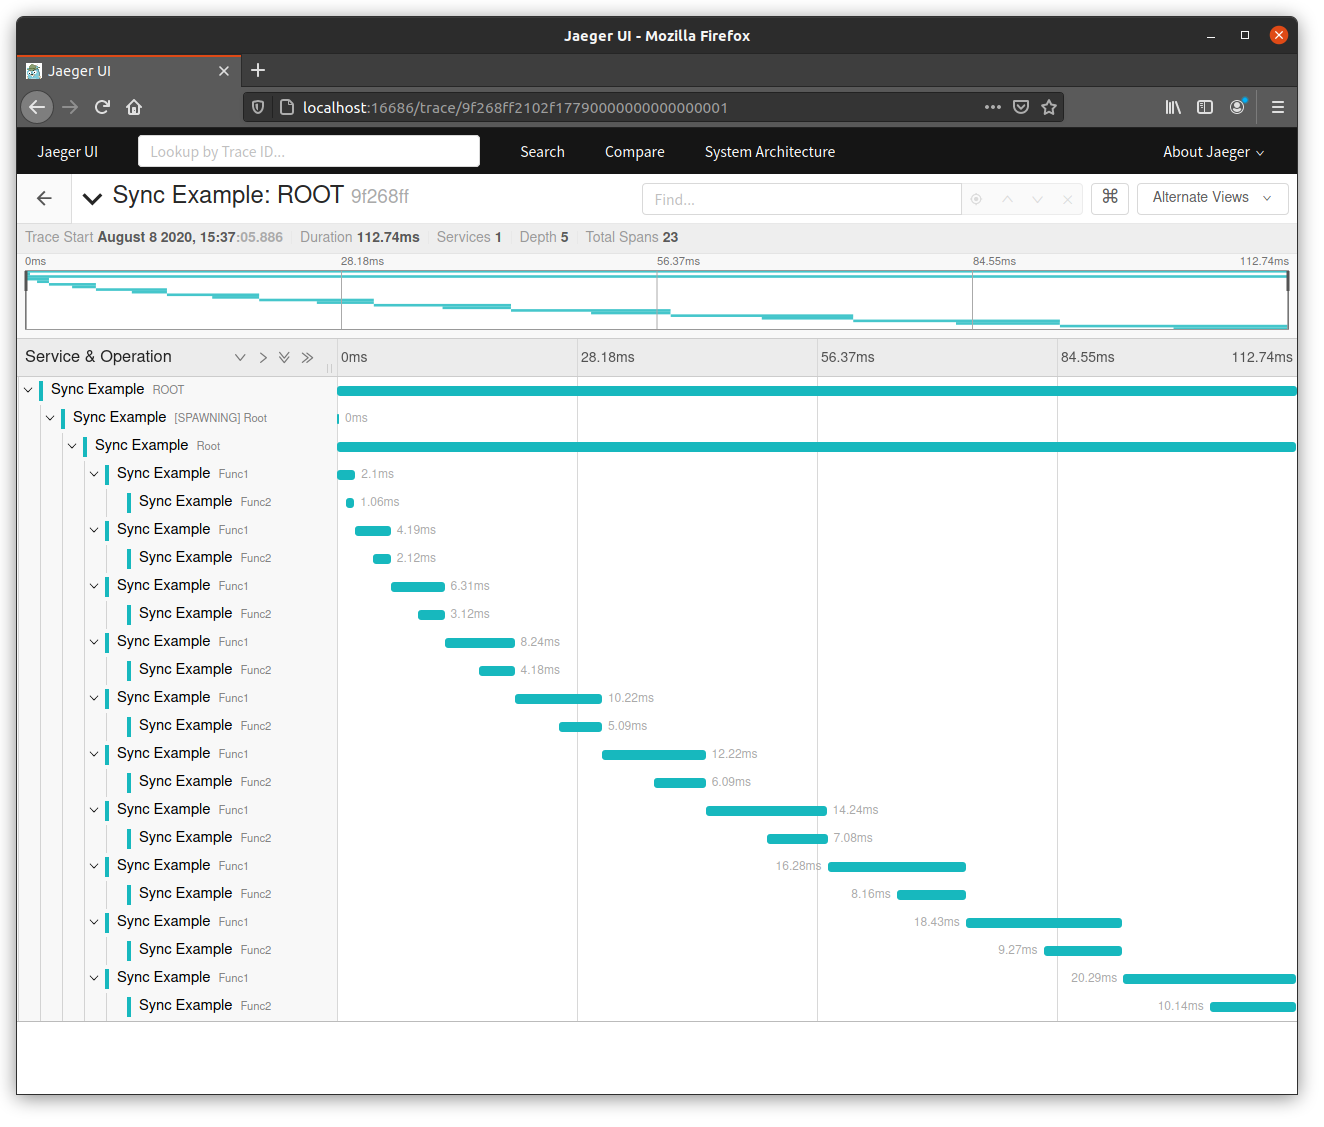
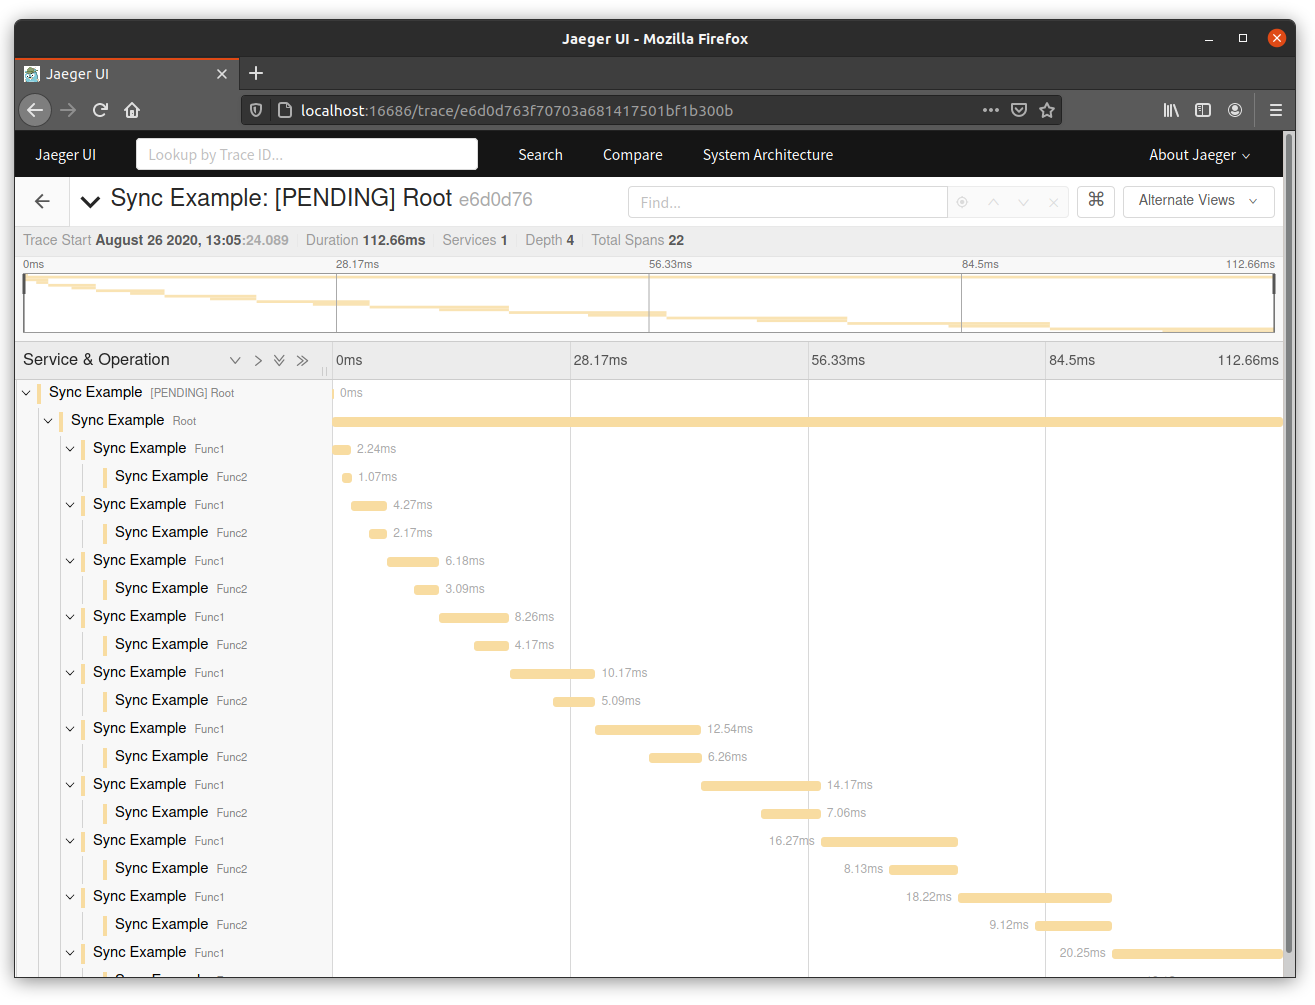
keep encode simple to support integration (#32)

diff --git a/src/jaeger/mod.rs b/src/jaeger/mod.rs
@@ -13,10 +13,10 @@ pub fn thrift_compact_encode<'a, S0: AsRef<str>, S1: AsRef<str> + 'a, S2: AsRef<
     trace_id_low: i64,
     TraceDetails {
         start_time_ns,
-        elapsed_ns,
         cycles_per_second,
         spans,
         properties,
+        ..
     }: &'a TraceDetails,
     event_to_operation_name: impl Fn(u32) -> S0,
     property_to_kv: impl Fn(&'a [u8]) -> (S1, S2),
@@ -25,7 +25,7 @@ pub fn thrift_compact_encode<'a, S0: AsRef<str>, S1: AsRef<str> + 'a, S2: AsRef<
     let start_time_us = *start_time_ns / 1_000;
 
     // # thrift message header
-    // ## protocal id
+    // ## protocol id
     // ```
     // const COMPACT_PROTOCOL_ID: u8 = 0x82;
     // buf.push(COMPACT_PROTOCOL_ID);
@@ -96,118 +96,20 @@ pub fn thrift_compact_encode<'a, S0: AsRef<str>, S1: AsRef<str> + 'a, S2: AsRef<
     // ```
     buf.push(0x19);
 
-    let root_span = spans
+    let anchor_cycles = spans
         .iter()
-        .find(|s| s.state == State::Root)
-        .expect("not contain root span");
-
-    let anchor_cycles = root_span.begin_cycles;
-    let root_id = root_span.id;
-    let root_event = root_span.event;
+        .map(|s| s.begin_cycles)
+        .min()
+        .expect("unexpected empty container");
 
     // spans list header
-    let len = spans.len() + 1; // `+1` due to an extra span as below
+    let len = spans.len();
     const STRUCT_TYPE: u8 = 12;
     if len < 15 {
         buf.push((len << 4) as u8 | STRUCT_TYPE as u8);
     } else {
         buf.push(0b1111_0000 | STRUCT_TYPE as u8);
         encode::varint(buf, len as _);
-    }
-
-    // Add a span represents the entire tracing process
-    {
-        // trace id low field header
-        // ```
-        // const TRACE_ID_LOW_DELTA: i16 = 1;
-        // const I64_TYPE: u8 = 6;
-        // const TRACE_ID_LOW_TYPE: u8 = (TRACE_ID_LOW_DELTA << 4) as u8 | I64_TYPE;
-        // buf.push(TRACE_ID_LOW_TYPE);
-        // ```
-        buf.push(0x16);
-        // trace id low data
-        encode::varint(buf, zigzag::from_i64(trace_id_low));
-
-        // trace id high field header
-        // ```ref_kind
-        // const TRACE_ID_HIGH_DELTA: i16 = 1;
-        // const I64_TYPE: u8 = 6;
-        // const TRACE_ID_HIGH_TYPE: u8 = (TRACE_ID_HIGH_DELTA << 4) as u8 | I64_TYPE;
-        // buf.push(TRACE_ID_HIGH_TYPE);
-        // ```
-        buf.push(0x16);
-        // trace id high data
-        encode::varint(buf, zigzag::from_i64(trace_id_high));
-
-        // The prev id of root span never conflicts with other span ids in
-        // current tracing context
-        let id = root_id.wrapping_sub(1);
-
-        // span id field header
-        // ```
-        // const SPAN_ID_DELTA: i16 = 1;
-        // const I64_TYPE: u8 = 6;
-        // const SPAN_ID_TYPE: u8 = (SPAN_ID_DELTA << 4) as u8 | I64_TYPE;
-        // buf.push(SPAN_ID_TYPE);
-        // ```
-        buf.push(0x16);
-        // span id data
-        encode::varint(buf, zigzag::from_i64(id as _));
-
-        // parent span id field header
-        // ```
-        // const PARENT_SPAN_ID_DELTA: i16 = 1;
-        // const I64_TYPE: u8 = 6;
-        // const PARENT_SPAN_ID_TYPE: u8 = (PARENT_SPAN_ID_DELTA << 4) as u8 | I64_TYPE;
-        // buf.push(PARENT_SPAN_ID_TYPE);
-        // ```
-        buf.push(0x16);
-        // parent span id data
-        encode::varint(buf, zigzag::from_i64(0));
-
-        // operation name field header
-        // ```
-        // const OPERATION_NAME_DELTA: i16 = 1;
-        // const BINARY_TYPE: u8 = 8;
-        // const OPERATION_NAME_TYPE: u8 = (OPERATION_NAME_DELTA << 4) as u8 | BINARY_TYPE;
-        // buf.push(OPERATION_NAME_TYPE);
-        // ```
-        buf.push(0x18);
-        // operation name data
-        encode::bytes(buf, event_to_operation_name(root_event).as_ref().as_bytes());
-
-        // flags header
-        //
-        // ```
-        // const FLAGS_DELTA: i16 = 2;
-        // const I32_TYPE: u8 = 5;
-        // const FLAGS_TYPE: u8 = (FLAGS_DELTA << 4) as u8 | I32_TYPE;
-        // ```
-        buf.push(0x25);
-        // flags data: `1` signifies a SAMPLED span, `2` signifies a DEBUG span.
-        encode::varint(buf, zigzag::from_i32(1) as _);
-
-        // start time header
-        // ```
-        // const START_TIME_DELTA: i16 = 1;
-        // const I64_TYPE: u8 = 6;property_lens
-        buf.push(0x16);
-        // start time data
-        encode::varint(buf, zigzag::from_i64(start_time_us as _));
-
-        // duration header
-        // ```
-        // const DURATION_DELTA: i16 = 1;
-        // const I64_TYPE: u8 = 6;
-        // const DURATION_TYPE: u8 = (DURATION_DELTA << 4) as u8 | I64_TYPE;
-        // ```
-        buf.push(0x16);
-        // duration data
-        let duration_us = *elapsed_ns / 1_000;
-        encode::varint(buf, zigzag::from_i64(duration_us as _));
-
-        // span struct tail
-        buf.push(0x00);
     }
 
     for span in spans {
@@ -219,12 +121,6 @@ pub fn thrift_compact_encode<'a, S0: AsRef<str>, S1: AsRef<str> + 'a, S2: AsRef<
             elapsed_cycles,
             event,
         } = span;
-        let related_id = if *state == State::Root {
-            // the above span as its parent
-            id.wrapping_sub(1)
-        } else {
-            *related_id
-        };
 
         // trace id low field header
         // ```
@@ -268,7 +164,7 @@ pub fn thrift_compact_encode<'a, S0: AsRef<str>, S1: AsRef<str> + 'a, S2: AsRef<
         // ```
         buf.push(0x16);
         // parent span id data
-        encode::varint(buf, zigzag::from_i64(related_id as _));
+        encode::varint(buf, zigzag::from_i64(*related_id as _));
 
         // operation name field header
         // ```
@@ -350,8 +246,8 @@ pub fn thrift_compact_encode<'a, S0: AsRef<str>, S1: AsRef<str> + 'a, S2: AsRef<
         // ```
         buf.push(0x16);
         // reference span id data
-        encode::varint(buf, zigzag::from_i64(related_id as _));
-        // reference struce tail
+        encode::varint(buf, zigzag::from_i64(*related_id as _));
+        // reference struct tail
         buf.push(0x00);
 
         // flags header
